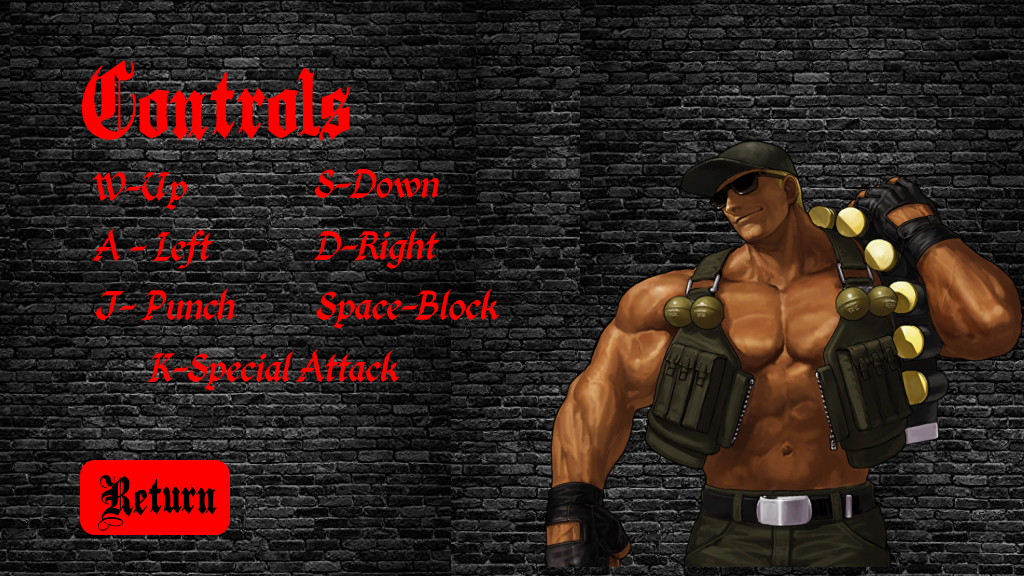
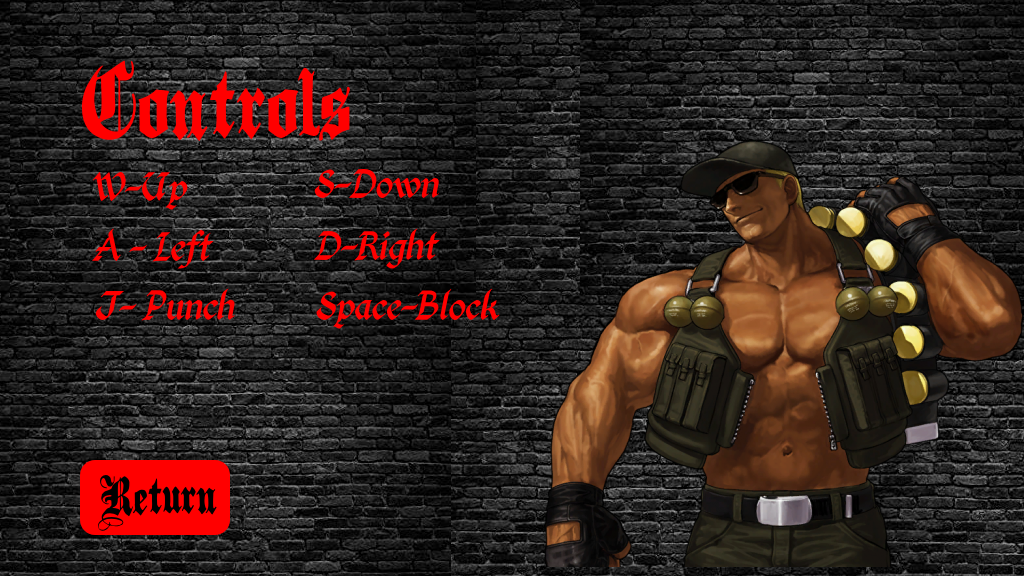
enemy attacking

Changed region(s): [[0.125, 0.5938, 0.4062, 0.6875]]

diff --git a/core/src/org/academiadecodigo/murlogs/characters/Enemy.java b/core/src/org/academiadecodigo/murlogs/characters/Enemy.java
@@ -14,6 +14,8 @@ public class Enemy extends Corpse {
     private boolean initialMove = true;
     private int hp = 100;
     private boolean isDead = false;
+    private boolean attack;
+    private boolean block;
 
 
     public Enemy(Body body) {
@@ -32,10 +34,6 @@ public class Enemy extends Corpse {
 
 
     public void enemyMove() {
-        if (isDead) {
-
-
-        }
 
         if (initialMove) {
             for (int i = 0; i < 50; i++) {
@@ -58,6 +56,23 @@ public class Enemy extends Corpse {
             iterators = 0;
         }
 
+        if(isClose()){
+            double blockOrAttack = random;
+
+
+            if(blockOrAttack < 0.1f){
+                block = true;
+                attack = false;
+            }
+            if(blockOrAttack >=0.1f && blockOrAttack < 0.2f){
+                attack = true;
+                block = false;
+            }
+            if(blockOrAttack >= 0.2f){
+                block = false;
+                attack = false;
+            }
+        }
 
         switch (directions) {
             case LEFT:
@@ -70,14 +85,11 @@ public class Enemy extends Corpse {
     }
 
     public boolean isDead() {
-        return isDead;
+        return hp <= 0;
     }
 
-    public void hitten(){
+    public void hitten(){ // TODO: 02/08/2019  10
         hp -= 100;
-        if (hp <= 0) {
-            isDead = true;
-        }
     }
 
     public void setClose(boolean b) {
@@ -85,5 +97,13 @@ public class Enemy extends Corpse {
     }
     public boolean isClose() {
         return close;
+    }
+
+    public boolean isAttack() {
+        return attack;
+    }
+
+    public boolean isBlock() {
+        return block;
     }
 }

diff --git a/core/src/org/academiadecodigo/murlogs/Screens/MainGame.java b/core/src/org/academiadecodigo/murlogs/Screens/MainGame.java
@@ -52,7 +52,6 @@ public class MainGame implements Screen {
         app.batch.begin();
         app.batch.draw(img, 0, 0);
         app.batch.end();
-        //Gdx.gl.glClear(GL20.GL_COLOR_BUFFER_BIT);
 
         stage.draw();
         stage.act(delta);
@@ -77,11 +76,22 @@ public class MainGame implements Screen {
             crouch = false;
         }
 
-        if (Gdx.input.isKeyPressed(Input.Keys.J)) {
-            if (enemy.isClose()) {
+        if (Gdx.input.isKeyPressed(Input.Keys.J) && !player.isBlocking() && enemy.isClose()) {
                 enemy.hitten();
-            }
         }
+
+        if (Gdx.input.isKeyPressed(Input.Keys.K)) {
+            player.setBlocking(true);
+        }
+        if (!Gdx.input.isKeyPressed(Input.Keys.K)) {
+            player.setBlocking(false);
+        }
+
+        if(enemy.isAttack() && !player.isBlocking() && enemy.isClose()){
+            System.out.println("DGHCHCKGCNGHFMJDVBFDHVD,JHF");
+           player.hitten();
+        }
+
     }
 
 
@@ -92,7 +102,7 @@ public class MainGame implements Screen {
             finish(enemyDeath);
 
         }
-        if (enemy.isDead()) { // TODO: 02/08/2019 player
+        if (player.isDead()) { // TODO: 02/08/2019 player
             playerdeath = new Texture(Gdx.files.internal(Constants.PLAYER_LOSE_IMAGE_PATH));
             finish(playerdeath);
         }

diff --git a/core/src/org/academiadecodigo/murlogs/characters/Player.java b/core/src/org/academiadecodigo/murlogs/characters/Player.java
@@ -29,6 +29,8 @@ public class Player extends Corpse {
     private Animation punchingAnimation;
     private boolean punch;
     private boolean close;
+    private boolean isBlocking;
+    private int hp = 100;
 
     public Player(Body body) {
         super(body);
@@ -147,6 +149,10 @@ public class Player extends Corpse {
         body.setTransform(body.getPosition(), 0f);
     }
 
+    public void setBlocking(Boolean b){
+        isBlocking = b;
+    }
+
     public boolean isDodging() {
         return dodging;
     }
@@ -161,5 +167,17 @@ public class Player extends Corpse {
 
     public boolean isClose() {
         return close;
+    }
+
+    public boolean isBlocking() {
+        return isBlocking;
+    }
+
+    public void hitten(){
+        System.out.println("hitting");
+        hp-=10;  // TODO: 02/08/2019  10
+    }
+    public boolean isDead() {
+        return hp <= 0;
     }
 }
